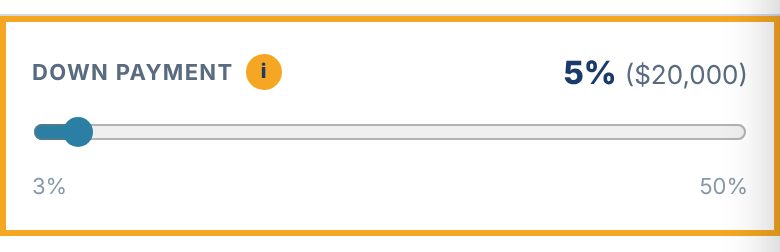
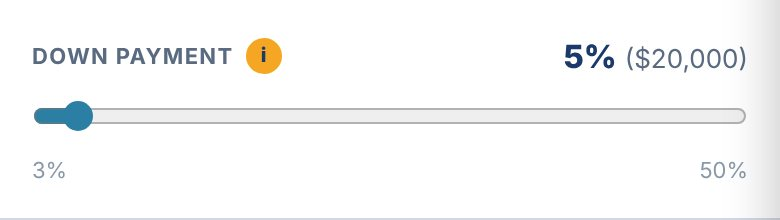
v8.35.1 (preview): help guide v2 feedback — clean even gold frames, insurance quote note, tax + lookup combined, Flood/CDD page removed, clearer Reset to Quote picture
Claude-Session: https://claude.ai/code/session_01UsUESyhBkBSSpKsiJJXEij

diff --git a/preview/index.html b/preview/index.html
@@ -2261,7 +2261,7 @@ var CONFIG = {
   /* ── VERSION — the ONLY place the version number is set. Bump it for every
      change; the header and footer read it from here, and "Publish preview to
      live" refuses to publish a change that still has the live version number. */
-  version: '8.35.0',
+  version: '8.35.1',
   /* ── LENDER IDENTITY ─────────────────────────────────────── */
   lender: {
     name:'Chris Greenidge', title:'Senior Loan Officer',
@@ -5018,22 +5018,14 @@ function initClientView(p) {
     {
       title:'5. Homeowners insurance',
       img:'07-insurance.jpg',
-      body:'This starts as an estimate (<strong>EST</strong>). Got a real quote? Tap the <strong>✎ pencil</strong> and type the monthly amount — your payment updates right away.',
+      body:'If Chris already got you an insurance quote, it’s already in here — you’ll see <strong>ACTUAL</strong> instead of <strong>EST</strong>, so you can leave it. Otherwise it’s an estimate. Shopping a different home or got your own quote? Tap the <strong>✎ pencil</strong> and type the monthly amount.',
     },
     {
       title:'6. Property tax',
       img:'09-tax.jpg',
-      body:'Taxes are estimated from your county’s tax rate at this price — for a home you’ll live in, that includes Florida’s <strong>$50,000 homestead exemption</strong>. Looking in a different county? Tap <strong>Edit</strong> under Property Location. Know the bill? Tap the <strong>✎ pencil</strong>.',
-    },
-    {
-      title:'7. Look up the real tax bill',
-      img:'10-lookup.jpg',
-      body:'Have an address? Tap <strong>“Have an address? Look up its actual tax bill.”</strong> Start typing and <strong>pick the address from the list</strong> — city and county fill in for you. Add the unit # for a condo, then tap <strong>Pull Tax Record</strong>.<br><br>If the record isn’t an exact match we’ll ask <strong>“Is this the right property?”</strong> first. In some counties you’ll see the <strong>current owner’s</strong> bill as a guide — yours will likely be higher after you buy.',
-    },
-    {
-      title:'8. Flood zone & CDD',
-      img:'11-flood-cdd.jpg',
-      body:'If the home is in a flood zone, turn on <strong>Flood Zone</strong> and enter the monthly flood insurance — lenders require it there, and regular homeowners insurance doesn’t cover floods. Newer communities may have a <strong>CDD fee</strong>; turn that on and enter the yearly amount.',
+      body:'Taxes are estimated from your county’s tax rate at this price — for a home you’ll live in, that includes Florida’s <strong>$50,000 homestead exemption</strong>. Know the bill? Tap the <strong>✎ pencil</strong>.',
+      img2:'10-lookup.jpg',
+      body2:'<strong>Have an address? Look up the real tax bill.</strong> Tap the button under Property Tax, start typing, and <strong>pick the address from the list</strong> — city and county fill in for you. Add the unit # for a condo, then tap <strong>Pull Tax Record</strong>.<br><br>If the record isn’t an exact match we’ll ask <strong>“Is this the right property?”</strong> first. In some counties you’ll see the <strong>current owner’s</strong> bill as a guide — yours will likely be higher after you buy.',
     },
     {
       title:'Changed too much? Start over',
@@ -5057,6 +5049,12 @@ function initClientView(p) {
     },
   ];
 
+  /* Screenshot with one even, rounded gold frame (drawn by the page, not baked into the picture) */
+  function helpImg(file){
+    if (!file) return '';
+    return '<div style="border:3px solid #F5A623;border-radius:12px;overflow:hidden;margin:0 0 14px;background:#fff;line-height:0;">'+
+      '<img src="'+HELP_IMG+file+'" alt="" loading="lazy" style="display:block;width:100%;height:auto;" onerror="this.parentNode.style.display=\'none\'"></div>';
+  }
   var helpCurrent = 0;
   var helpDrawer  = document.getElementById('help-drawer');
   var helpOverlay = document.getElementById('help-overlay');
@@ -5066,8 +5064,10 @@ function initClientView(p) {
     document.getElementById('help-step-label').textContent = 'Step '+(helpCurrent+1)+' of '+helpSteps.length;
     var content = document.getElementById('help-content');
     content.innerHTML = '<div style="font-size:18px;font-weight:800;color:var(--text);margin-bottom:12px;">'+step.title+'</div>'+
-      (step.img ? '<img src="'+HELP_IMG+step.img+'" alt="" loading="lazy" style="display:block;width:100%;height:auto;border-radius:10px;border:1px solid var(--border);margin:0 0 14px;background:#fff;" onerror="this.style.display=\'none\'">' : '')+
+      helpImg(step.img)+
       '<div style="font-size:14px;color:var(--text-muted);line-height:1.8;">'+step.body+'</div>'+
+      (step.img2 ? '<div style="height:18px;"></div>'+helpImg(step.img2) : '')+
+      (step.body2 ? '<div style="font-size:14px;color:var(--text-muted);line-height:1.8;">'+step.body2+'</div>' : '')+
       (step.cta?'<div style="margin-top:20px;display:flex;flex-direction:column;gap:10px;">'+
         '<a href="tel:'+CONFIG.lender.phone+'" style="display:flex;align-items:center;justify-content:center;gap:8px;height:48px;background:var(--navy);color:#fff;text-decoration:none;border-radius:var(--radius-sm);font-weight:700;font-size:15px;">&#128222; Call Chris</a>'+
         '<a href="mailto:'+CONFIG.lender.emailParts[0]+'@'+CONFIG.lender.emailParts[1]+'" style="display:flex;align-items:center;justify-content:center;gap:8px;height:48px;background:transparent;border:2px solid var(--teal);color:var(--teal);text-decoration:none;border-radius:var(--radius-sm);font-weight:700;font-size:15px;">&#9993; Email Chris</a>'+

diff --git a/tests/run.js b/tests/run.js
@@ -449,7 +449,7 @@ async function readScreen(page, pattern) {
   if (/Homestead Exemption box|Download PDF/i.test(O.text)) failures.push('Help: guide still mentions things that no longer exist (Homestead box / Download PDF)');
   if (!/Look up the real tax bill/.test(O.text) || !/Reset to Quote/.test(O.text)) failures.push('Help: guide should cover the tax lookup and the Reset to Quote tab');
   // Guide v2: pages follow the screen top to bottom (price before down payment before tax before save before share)
-  const order = ['Purchase price', 'Down payment', 'Loan term', 'HOA fee', 'Homeowners insurance', 'Property tax', 'Look up the real tax bill', 'Save your scenario', 'Share with someone'].map((w) => O.text.indexOf(w));
+  const order = ['Purchase price', 'Down payment', 'Loan term', 'HOA fee', 'Homeowners insurance', 'Property tax', 'Look up the real tax bill', 'Reset to Quote', 'Save your scenario', 'Share with someone'].map((w) => O.text.indexOf(w));
   if (order.some((x) => x < 0) || order.some((x, k) => k > 0 && x < order[k - 1])) failures.push(`Help: guide pages should follow the screen order (${order.join(',')})`);
 
   await browser.close();

diff --git a/tests/README.md b/tests/README.md
@@ -39,4 +39,4 @@ These tests make sure no change to `index.html` quietly changes a payment or DTI
 - v8.32.0 (Q5, Chris Nov 9 — D4 option A, "safety first"): the Worker checks every county lookup (Pinellas, Hillsborough, Pasco, Manatee). The county record's street must match what was typed exactly (number, name, St/Ave/Dr, N/S/E/W) and the unit must be confirmed; Hillsborough/Pasco/Manatee also report whether the address came from the county at all. Otherwise `needs_confirmation` → the client sees "Is this the right property?" and nothing is filled until they tap "Yes". Tests: worker.test.mjs sections 12–13, run.js check M (both proven to fail on the old code).
 - v8.33.0 (ADDR1, Chris Nov 9): Google address autocomplete in the tax lookup. Page → Worker `/address-suggest` + `/address-details` → Google Places API (New). Key only as Worker secret GOOGLE_PLACES_KEY; 4,000 Google calls/month cap (free allowance 5,000), then plain typing; 4+ letters and a short pause before asking; US only, Florida favoured. Picking fills street, city, county, unit; the Q5 exact-match check still runs on the lookup. Tests: worker.test.mjs section 14, run.js check N.
 - v8.34.0 (Chris, Nov 9): the "?" button opens the full help guide again (an Oct 20 change had pointed it at the 3-page welcome). Guide now 12 pages: removed the non-existent Homestead box and "Download PDF", added the tax lookup + address suggestions and the Reset to Quote tab, honest wording on Share; readable in night mode. Test O.
-- v8.35.0 (Chris, Nov 9): help guide v2 — 14 pages in the order a client works down the screen (numbers loaded → payment bar → price → down → term → HOA → insurance → tax → tax lookup → flood/CDD → Reset to Quote → save → share → call Chris), each with a highlighted screenshot from /help-img/. Old text kept in docs/help-guide-v1-set-aside.md. Test O checks the page order.
+- v8.35.0–8.35.1 (Chris, Nov 9): help guide v2 — 12 pages (8.35.1: even gold frame drawn by the page, insurance "ACTUAL" note, tax + lookup on one page, Flood/CDD page removed, clearer Reset picture), was 14 pages in the order a client works down the screen (numbers loaded → payment bar → price → down → term → HOA → insurance → tax → tax lookup → flood/CDD → Reset to Quote → save → share → call Chris), each with a highlighted screenshot from /help-img/. Old text kept in docs/help-guide-v1-set-aside.md. Test O checks the page order.
